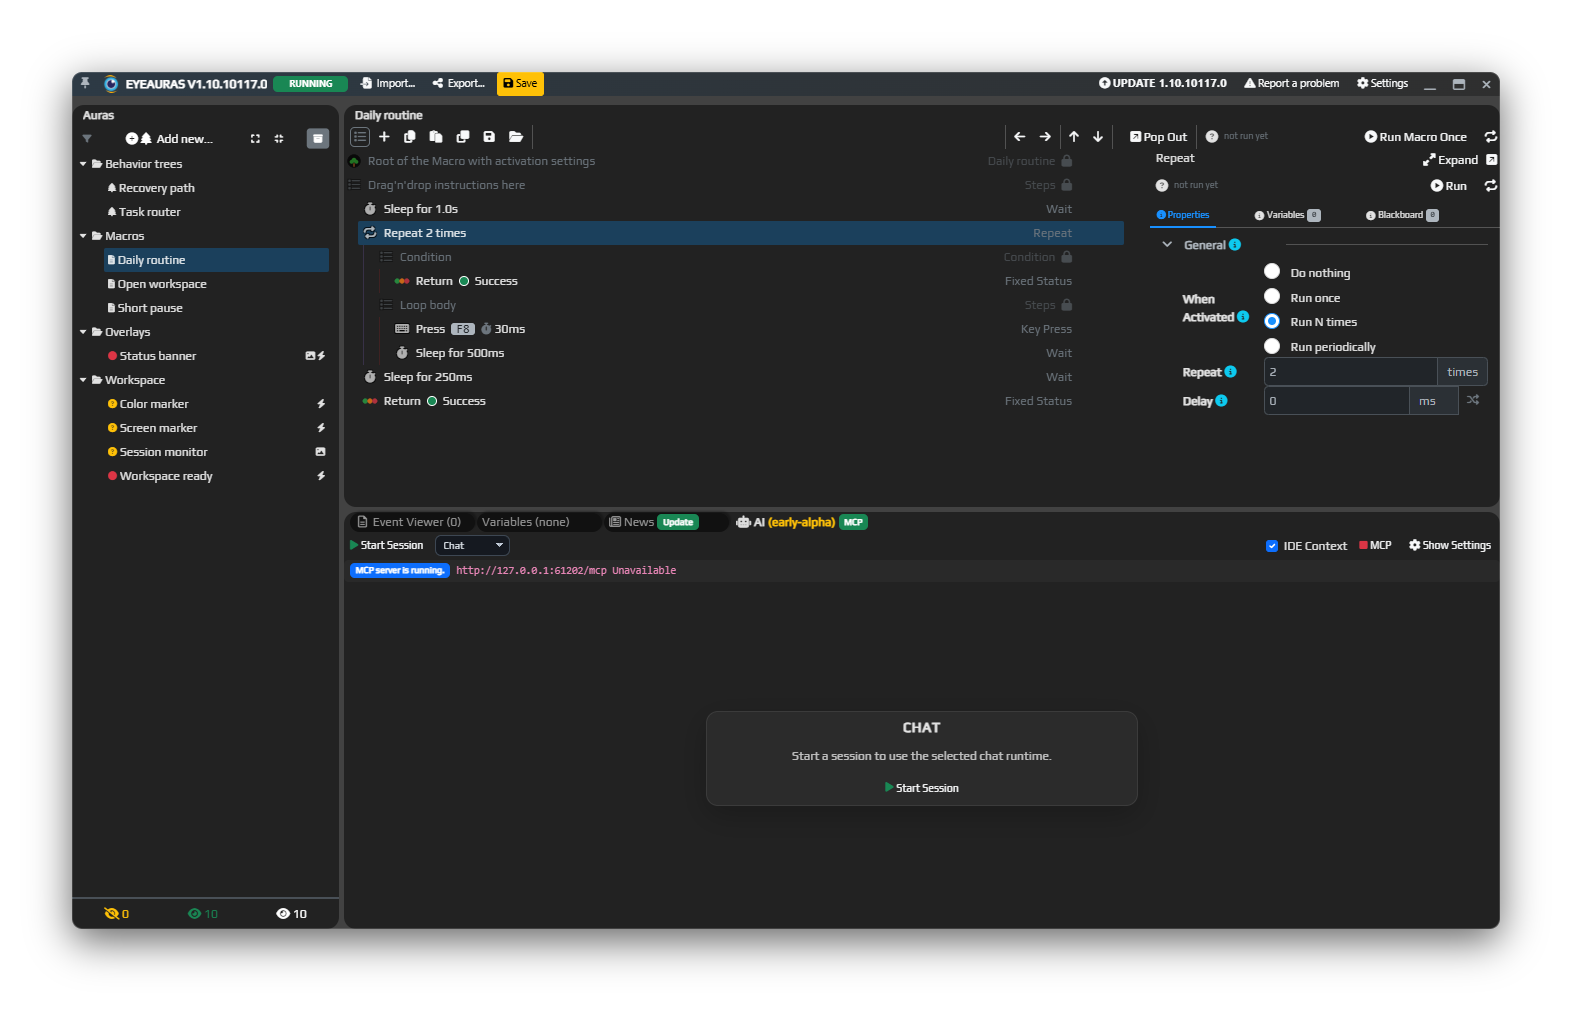
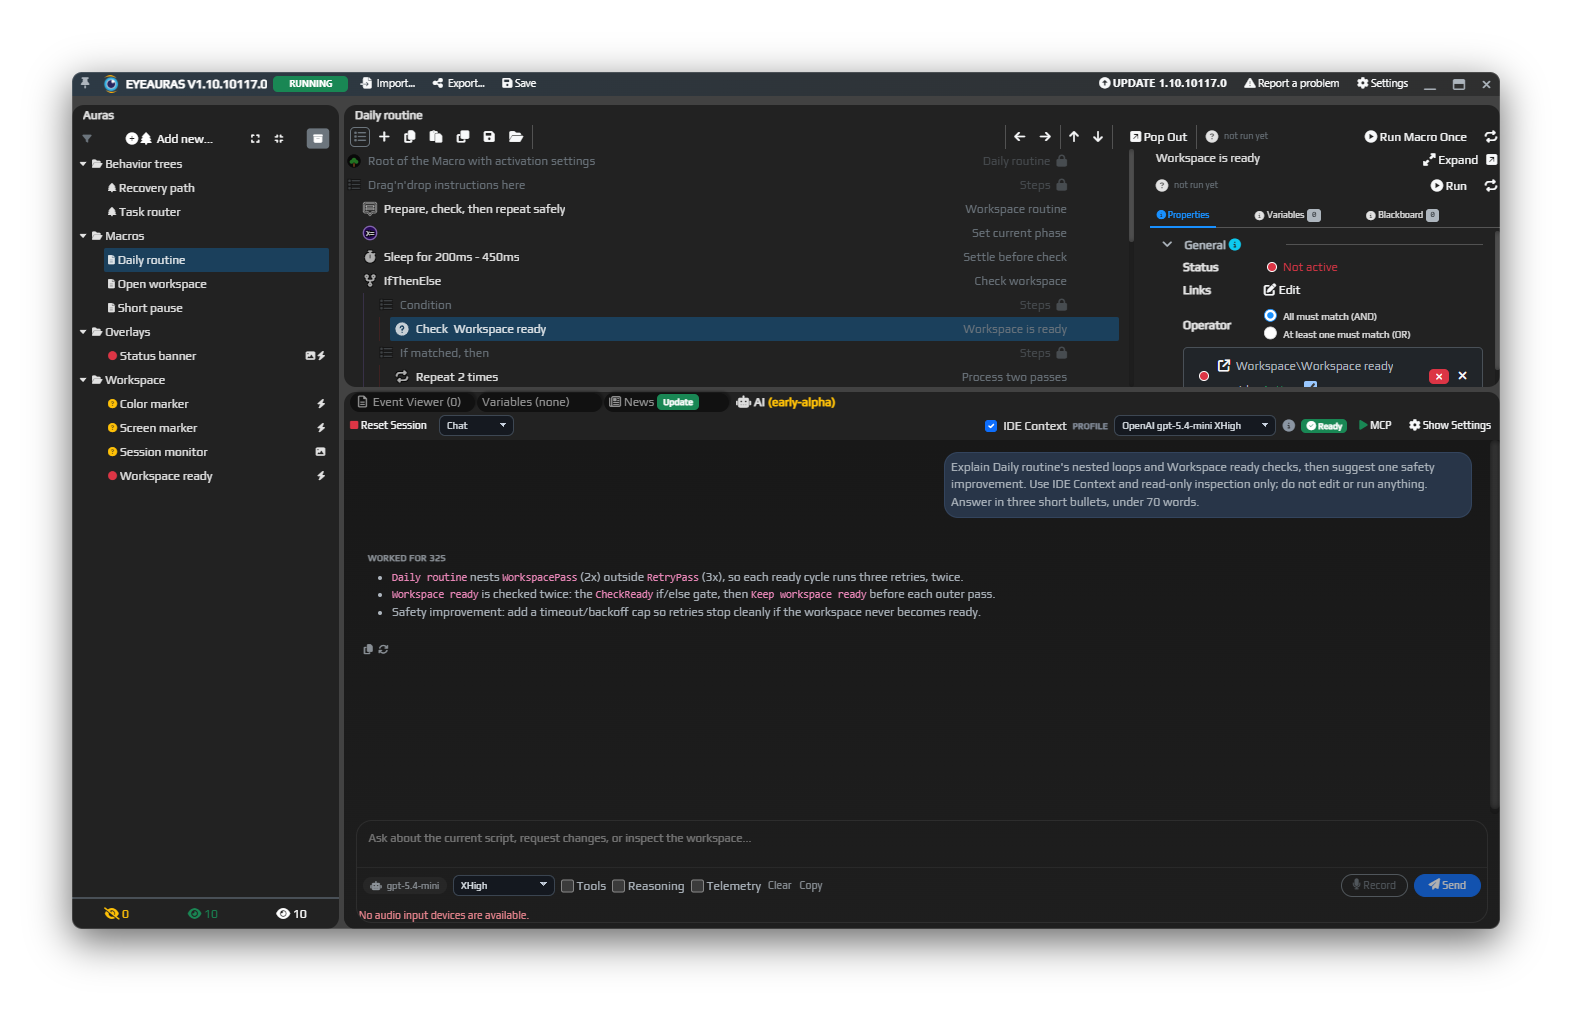
Show a nested macro and a real AI conversation on Russian home

diff --git a/ru/home.md b/ru/home.md
@@ -27,7 +27,7 @@ dateCreated: 2022-11-02T14:50:20.232Z
 
 ![Полное рабочее пространство EyeAuras с макросом Daily routine](/assets/home/showcase-macro-ru.png)
 
-*Макрос держит паузы, повтор и нажатие клавиши в нужном порядке.*
+*Объединяйте проверки, вложенные повторы и действия в одном сценарии.*
 
 ### Аура — следить и реагировать
 
@@ -45,9 +45,9 @@ dateCreated: 2022-11-02T14:50:20.232Z
 
 Обсуждайте задачу в AI-панели с контекстом EyeAuras. Выберите режим и настройте доступный профиль провайдера; подробности — в [руководстве по AI Assistant](/ru/features/ai-assistant).
 
-![Полное рабочее пространство EyeAuras с открытой AI-панелью до создания сеанса](/assets/home/showcase-ai-ru.png)
+![Полное рабочее пространство EyeAuras с ответом AI по макросу Daily routine](/assets/home/showcase-ai-ru.png)
 
-*Держите обсуждение задачи рядом с её настройками.*
+*Обсудите логику сценария и найдите, что можно улучшить, не выходя из редактора.*
 
 ## Первый макрос
 
